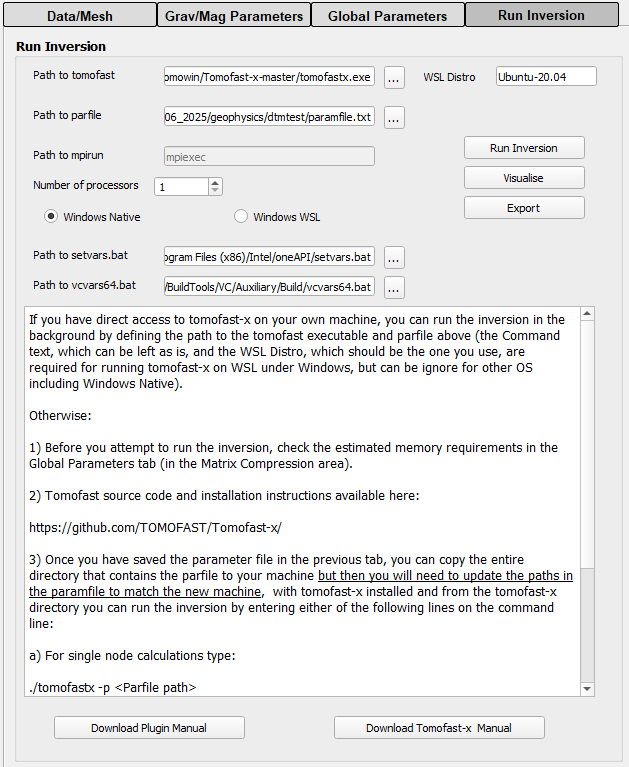
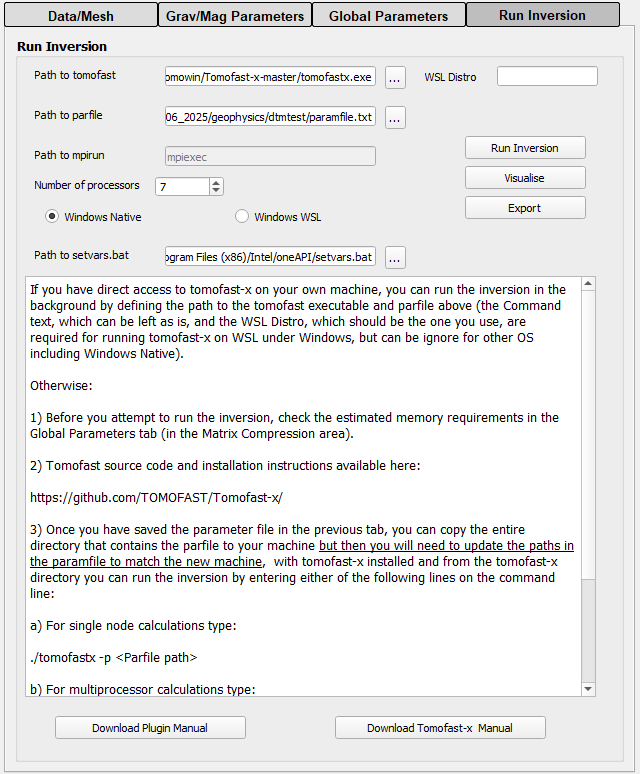
remove need for call to vcvars64.bat

diff --git a/Tomofast_x.py b/Tomofast_x.py
@@ -796,12 +796,8 @@ class Tomofast_x:
             self.dlg.pushButton_2_select_parfilePath.clicked.connect(
                 self.select_paramfile_path
             )
-            self.dlg.pushButton_select_setvars.clicked.connect(
-                self.select_setvars_path
-            )
-            self.dlg.pushButton_select_vcvars64.clicked.connect(
-                self.select_vcvars64_path
-            )
+            self.dlg.pushButton_select_setvars.clicked.connect(self.select_setvars_path)
+
             self.dlg.pushButton_3_visualise.clicked.connect(self.visualise_output)
             self.dlg.pushButton_kernel_path_select.clicked.connect(
                 self.select_kernel_path
@@ -834,10 +830,6 @@ class Tomofast_x:
                     line = tpfile.readline()
                     self.dlg.lineEdit_setvarsPath.setText(line.rstrip())
                     self.setvars_Path = line.rstrip()
-
-                    line = tpfile.readline()
-                    self.dlg.lineEdit_vcvars6Path.setText(line.rstrip())
-                    self.vcvars64_Path = line.rstrip()
 
             self.dlg.version_label.setText("v " + self.show_version())
 
@@ -946,7 +938,6 @@ class Tomofast_x:
             print(f"File not found: {file_path}")
         except Exception as e:
             print(f"An error occurred: {e}")
-            
 
     def add_quotes_to_path(self, path):
         return '"' + path + '"'
@@ -959,7 +950,7 @@ class Tomofast_x:
         """
         # Normalize all backslashes to forward slashes
         normalized = windows_path.replace("\\", "/")
-        
+
         # Build the WSL path prefixes to look for (with various slash combinations)
         prefixes_to_remove = [
             "//wsl.localhost/" + distro,
@@ -969,20 +960,20 @@ class Tomofast_x:
             "wsl.localhost/" + distro,
             "wsl$/" + distro,
         ]
-        
+
         # Try to match and remove each prefix
         normalized_lower = normalized.lower()
         for prefix in prefixes_to_remove:
             prefix_lower = prefix.lower()
             if normalized_lower.startswith(prefix_lower):
                 # Remove the prefix, keep the rest (which should start with /)
-                linux_path = normalized[len(prefix):]
+                linux_path = normalized[len(prefix) :]
                 # Ensure it starts with /
                 if not linux_path.startswith("/"):
                     linux_path = "/" + linux_path
                 print(f"Converted WSL path: {windows_path} -> {linux_path}")
                 return linux_path
-        
+
         # If it doesn't match the WSL pattern, return as-is
         print(f"Path not recognized as WSL, returning as-is: {normalized}")
         return normalized
@@ -1003,12 +994,15 @@ class Tomofast_x:
                 # Native Windows mode
                 wsl_tomo_path = self.tomo_Path
                 wsl_param_path = self.paramfile_Path
-                mpiexec_path = self.dlg.lineEdit_mpiexec_path.text().strip() if hasattr(self.dlg, 'lineEdit_mpiexec_path') else "mpiexec"
+                mpiexec_path = (
+                    self.dlg.lineEdit_mpiexec_path.text().strip()
+                    if hasattr(self.dlg, "lineEdit_mpiexec_path")
+                    else "mpiexec"
+                )
                 distro = " "
-                
+
                 # Get paths for VS and Intel oneAPI
                 oneapi_path = self.dlg.lineEdit_setvarsPath.text().strip()
-                vcvars_path = self.dlg.lineEdit_vcvars6Path.text().strip()
 
             elif platform.system() == "Windows":
                 distro = self.dlg.lineEdit_pre_command_2_WSL_Distro.text()
@@ -1077,7 +1071,6 @@ class Tomofast_x:
                     else:
                         tpfile.write(mpirun_path + "\n")
                     tpfile.write(self.dlg.lineEdit_setvarsPath.text().strip() + "\n")
-                    tpfile.write(self.dlg.lineEdit_vcvars6Path.text().strip() + "\n")
 
             noProc = self.dlg.mQgsSpinBox_noProc.value()
 
@@ -1103,33 +1096,26 @@ class Tomofast_x:
                 if platform.system() == "Windows" and use_native_windows:
                     # Native Windows mode - create a batch file to set up environment and run
                     print("mpiexec_path - ", mpiexec_path)
-                    print("vcvars_path - ", vcvars_path)
                     print("oneapi_path - ", oneapi_path)
-                    
+
                     # Escape any forward slashes to backslashes for Windows batch
-                    vcvars_path_bat = vcvars_path.replace("/", "\\")
                     oneapi_path_bat = oneapi_path.replace("/", "\\")
                     tomo_path_bat = wsl_tomo_path.replace("/", "\\")
                     param_path_bat = wsl_param_path.replace("/", "\\")
                     debug_path_bat = debug_path.replace("/", "\\")
-                    
-                    batch_content = '''@echo off
+
+                    batch_content = """@echo off
                 setlocal
 
-                '''
+                """
                     # Build the command based on number of processors
                     if noProc == 1:
                         run_command = f'"{tomo_path_bat}" -p "{param_path_bat}"'
                     else:
                         run_command = f'"{mpiexec_path}" -n {noProc} "{tomo_path_bat}" -p "{param_path_bat}"'
 
-                    batch_content += f'''
-                call "{vcvars_path_bat}"
-                if errorlevel 1 (
-                    echo Failed to set up Visual Studio environment
-                    pause
-                    exit /b 1
-                )
+                    batch_content += f"""
+
 
                 call "{oneapi_path_bat}"
                 if errorlevel 1 (
@@ -1147,18 +1133,20 @@ class Tomofast_x:
                 echo Process completed. Press any key to close...
                 pause >nul
                 endlocal
-                '''
+                """
                     # Write the batch file
-                    batch_file_path = os.path.join(os.path.dirname(self.paramfile_Path), "run_tomofastx.bat")
-                    with open(batch_file_path, 'w') as batch_file:
+                    batch_file_path = os.path.join(
+                        os.path.dirname(self.paramfile_Path), "run_tomofastx.bat"
+                    )
+                    with open(batch_file_path, "w") as batch_file:
                         batch_file.write(batch_content)
-                    
+
                     print(f"Created batch file: {batch_file_path}")
-                    
+
                     # Run the batch file in a new console window
                     command = f'start "TomoFast-x Process" cmd /c "{batch_file_path}"'
                     print("command: ", command)
-                    
+
                     process = subprocess.Popen(
                         command,
                         shell=True,
@@ -1192,7 +1180,7 @@ class Tomofast_x:
                 else:
                     # Unix/macOS
                     print("mpirun_path - ", mpirun_path)
-                    
+
                     if noProc == 1:
                         command = f"'{wsl_tomo_path}' -p '{wsl_param_path}' 2>&1 | tee '{debug_path}'"
                     else:
@@ -1230,7 +1218,9 @@ class Tomofast_x:
         """
         if elevType == 1:
             # Line 1175 - FIXED:
-            self.data2tomofast.df["POINT_Z"] = np.zeros(self.data2tomofast.df["POINT_X"].values.shape) - elevation
+            self.data2tomofast.df["POINT_Z"] = (
+                np.zeros(self.data2tomofast.df["POINT_X"].values.shape) - elevation
+            )
         else:
             # self.df["POINT_Z"] = -df_elev["POINT_Z"]
             # Function to safely extract numeric value from QVariant or a normal type
@@ -1265,8 +1255,8 @@ class Tomofast_x:
                 shutil.copyfile(self.paramfile_Path, self.paramfile_Path_run)
                 drive = self.paramfile_Path_run[0:2]
                 self.replace_text_in_file(
-                        self.paramfile_Path_run,
-                        self.wsl_path_backslash,
+                    self.paramfile_Path_run,
+                    self.wsl_path_backslash,
                     "= {}:/".format(drive[0]),
                     "= /mnt/{}/".format(drive[0].lower()),
                 )
@@ -1429,17 +1419,6 @@ class Tomofast_x:
         )
         if os.path.exists(self.setvars_Path) and self.setvars_Path != "":
             self.dlg.lineEdit_setvarsPath.setText(self.setvars_Path)
-
-    def select_vcvars64_path(self):
-
-        self.vcvars64_Path, _filter = QFileDialog.getOpenFileName(
-            None,
-            "Select tomofast paramfile",
-            ".",
-            "BAT (*.bat;*.BAT)",
-        )
-        if os.path.exists(self.vcvars64_Path) and self.vcvars64_Path != "":
-            self.dlg.lineEdit_vcvars6Path.setText(self.vcvars64_Path)
 
     # load and parse existing paramfiel and set gui widgets accordingly
     def process_parameter_file(self):
@@ -1816,7 +1795,7 @@ class Tomofast_x:
         )
         df[0] = (df[0] + df[1]) / 2.0
         df[2] = (df[2] + df[3]) / 2.0
-        df = df.drop(axis=1, columns=[1, 3, 4, 5, 6, 7, 8 ]) #removed data column
+        df = df.drop(axis=1, columns=[1, 3, 4, 5, 6, 7, 8])  # removed data column
 
         temp = QgsVectorLayer("Point", "model_grid", "memory")
         temp_data = temp.dataProvider()
@@ -4110,9 +4089,6 @@ class Tomofast_x:
         self.dlg.pushButton_select_setvars.setToolTip(
             "Select setvars.bat file \n(usually at C:\Program Files (x86)\Intel\oneAPI\setvars.bat)"
         )
-        self.dlg.pushButton_select_vcvars64.setToolTip(
-            "Select vcvars64.bat file \n(usually at C:\Program Files (x86)\Microsoft Visual Studio\ *SOME NUMBER* \BuildTools\VC\Auxiliary\Build\vcvars64.bat)"
-        )
         self.dlg.lineEdit_2_mpirunPath_2.setToolTip(
             "Path to mpirun executable, if not in PATH, e.g. '/opt/homebrew/bin/mpirun' (MACOS/Linux Only)"
         )
@@ -4154,11 +4130,11 @@ class Tomofast_x:
         self.global_description = ""
         self.forward_data_grav_nData = 0
         self.forward_data_grav_dataGridFile = ""
-        #self.forward_data_grav_dataValuesFile = ""
+        # self.forward_data_grav_dataValuesFile = ""
         self.modelGrid_magn_file = ""
         self.forward_data_magn_nData = 0
         self.forward_data_magn_dataGridFile = ""
-        #self.forward_data_magn_dataValuesFile = ""
+        # self.forward_data_magn_dataValuesFile = ""
         self.forward_depthWeighting_grav_type = 1
         self.forward_depthWeighting_magn_type = 1
         self.forward_depthWeighting_grav_power = 2
@@ -4226,4 +4202,3 @@ class Tomofast_x:
         self.paramfile_Path = ""
         self.suffix_known = False
         self.setvars_Path = ""
-        self.vcvars64_Path = ""

diff --git a/README.md b/README.md
@@ -135,7 +135,7 @@ J. Modify parameters and then save out  File by clicking on Save Files button [D
 K. If you have tomofast-x installed on your machine, you can run it directly from this tab, after defining the path to the tomofastx executable and the paramfile, and the number of processors to use.    
    
 Under Windows this can be run as a native tomofastx.exe file or via WSL2 (Windows Subsystem For Linux v2), so you will need to specify which type of Windows you will run and:
-- For **Native Windows** use you will need to specify the paths to two bat files (tooltips give likely locations)
+- For **Native Windows** use you will need to specify the path to a bat file (tooltip give likely location)
 - For **WSL** which Linux Distribution is installed 
 - For **MacOs** use you will have to specify the path to the OpenMPI mpirun binary
    
